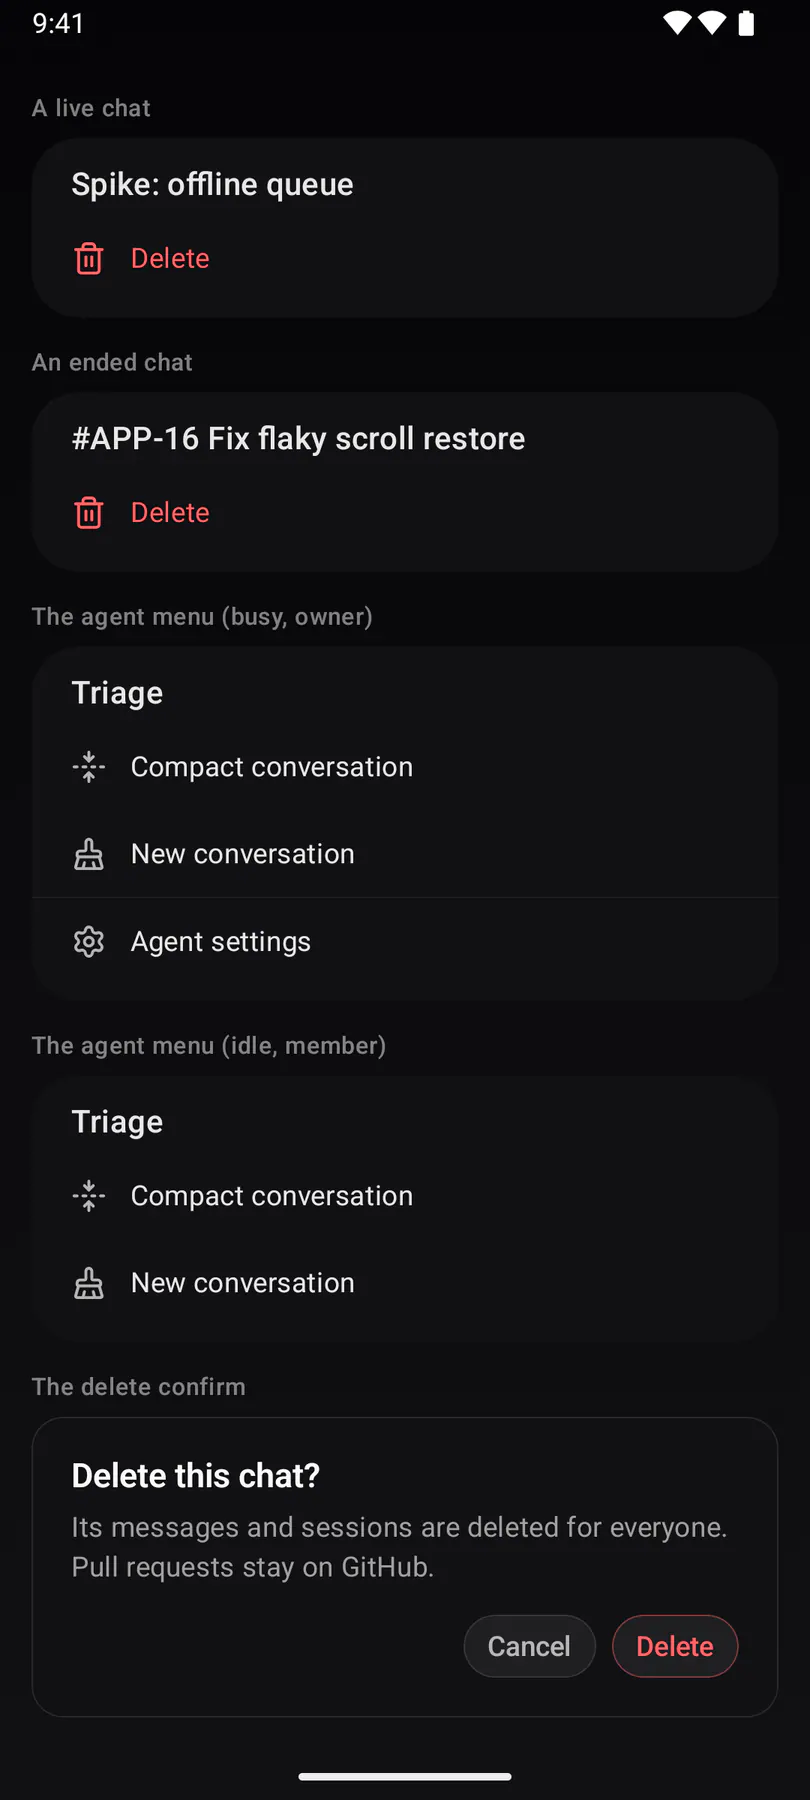
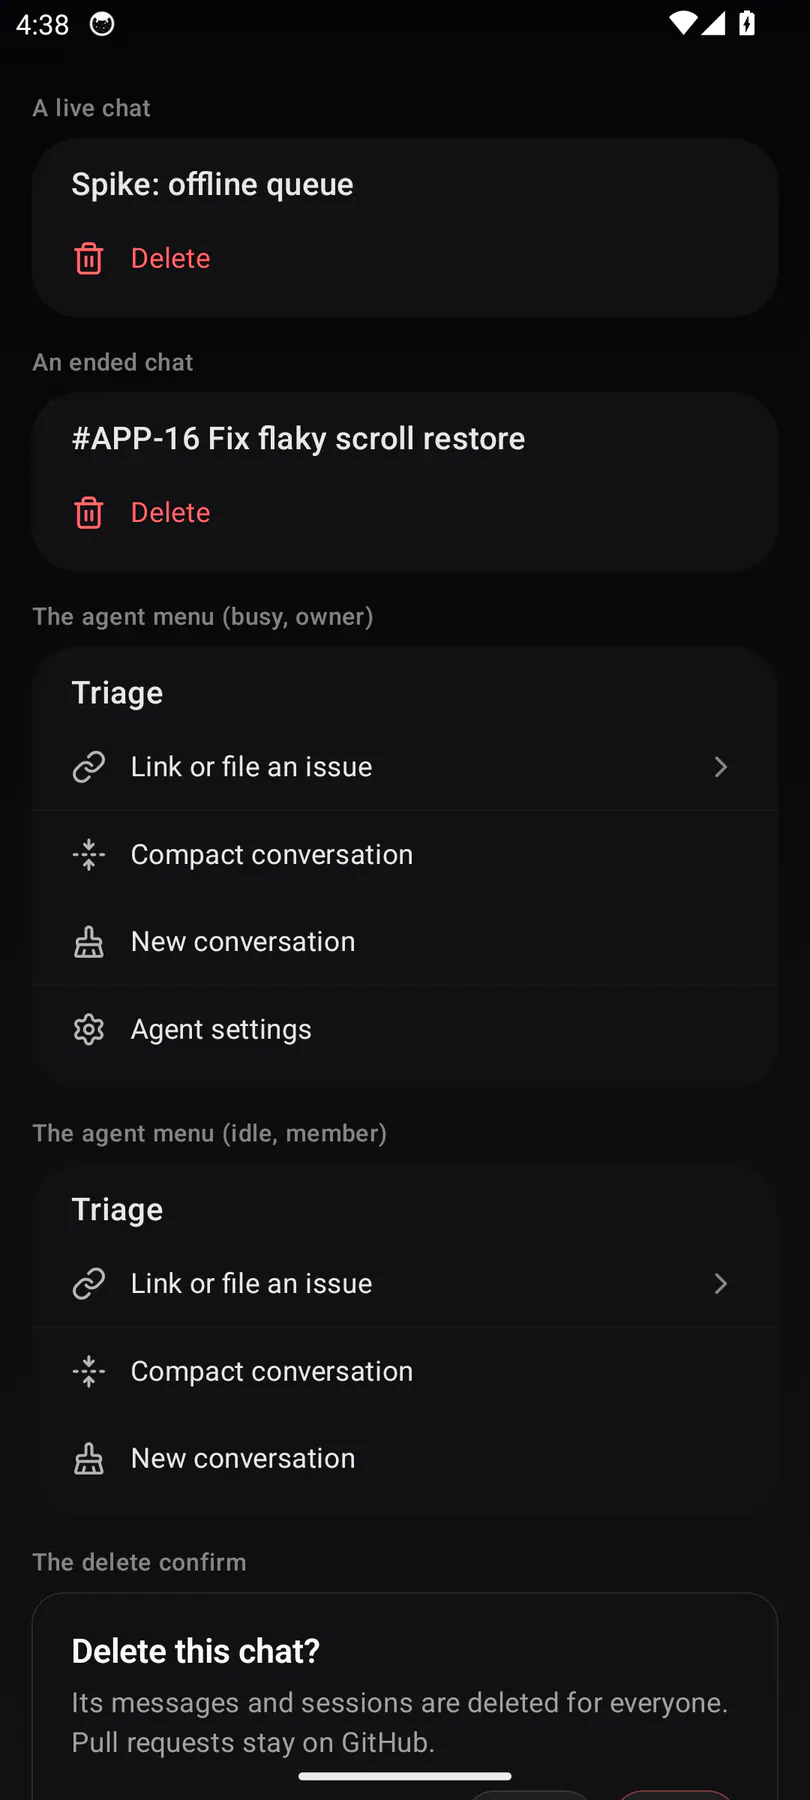
FEED-271: Android … Link or file an issue wears the `›` (iOS, web-mobile, IDE parity); chat-menus specimen draws THE session screen menu; agent-channel + chat-menus android shots

diff --git a/apps/android/app/src/main/java/com/exponential/app/ui/styleguide/ChatSpecimens.kt b/apps/android/app/src/main/java/com/exponential/app/ui/styleguide/ChatSpecimens.kt
@@ -71,7 +71,6 @@ import com.exponential.app.ui.components.SelectionBarSlot
 import com.exponential.app.ui.components.BottomNavDefaults
 import androidx.compose.foundation.layout.navigationBarsPadding
 import com.exponential.app.ui.components.ScheduleFieldsSpecimen
-import com.exponential.app.ui.components.agentMenuItems
 import com.exponential.app.ui.components.chatMenuItems
 import com.exponential.app.ui.theme.AppBackground
 import com.exponential.app.ui.theme.TextEmphasis
@@ -767,13 +766,15 @@ fun ChatMenusSpecimenScreen() {
             MenuCaptioned("An ended chat") {
                 ChatMenuSheetFace("#APP-16 Fix flaky scroll restore", chatMenuItems(Chats.chatMenuEntries("ended", true, true)) {})
             }
+            // #FEED-271: THE session screen `…` of an agent (web's
+            // AGENT_MENU_INPUT: a member, Link or file an issue › first).
             MenuCaptioned("The agent menu (busy, owner)") {
-                ChatMenuSheetFace("Triage", agentMenuItems(Chats.agentMenuEntries(busy = true, isOwner = true)) {})
+                ChatMenuSheetFace("Triage", specimenAgentMenu(settings = true))
             }
             MenuCaptioned("The agent menu (idle, member)") {
                 // Web's specimen names no agent; every phone titles both agent
                 // menus with the same agent (iOS: Triage).
-                ChatMenuSheetFace("Triage", agentMenuItems(Chats.agentMenuEntries(busy = false, isOwner = false)) {})
+                ChatMenuSheetFace("Triage", specimenAgentMenu(settings = false))
             }
             MenuCaptioned("The delete confirm") {
                 GlassAlertFace(
@@ -788,6 +789,20 @@ fun ChatMenusSpecimenScreen() {
         }
     }
 }
+
+private fun specimenAgentMenu(settings: Boolean) = com.exponential.app.ui.chat.sessionScreenMenuItems(
+    com.exponential.app.domain.SessionScreen.Kind.Agent,
+    com.exponential.app.domain.SessionScreen.menu(
+        com.exponential.app.domain.SessionScreen.Kind.Agent,
+        phone = false,
+        member = true,
+        settings = settings,
+        publish = false,
+        export = false,
+        delete = false,
+        linkIssue = true,
+    ),
+) {}
 
 /** A chat-menus specimen under web's caption (`text-xs` muted, 8dp above). */
 @Composable

diff --git a/apps/android/app/src/main/java/com/exponential/app/ui/components/ChatComponents.kt b/apps/android/app/src/main/java/com/exponential/app/ui/components/ChatComponents.kt
@@ -692,6 +692,9 @@ data class ChatMenuItem(
     /** #EXP-1611: non-null = a submenu entry; a pick PUSHES these rows as
      *  the menu's page (the header `…`'s Checks). */
     val submenu: List<ChatMenuItem>? = null,
+    /** #FEED-271: the `›` of a row that opens the next sheet (the session
+     *  screen's Link or file an issue), like a submenu entry's. */
+    val chevron: Boolean = false,
     /** The muted trailing meta (the app editor's Versions count). */
     val meta: String? = null,
 )
@@ -754,6 +757,18 @@ fun ChatMenuRows(items: List<ChatMenuItem>) {
                                 color = MaterialTheme.colorScheme.onSurface.copy(alpha = TextEmphasis.Secondary),
                             )
                         }
+                    } ?: if (item.chevron) {
+                        // #FEED-271: a row that opens the next sheet wears its `›`.
+                        {
+                            Icon(
+                                ExpIcons.uiChevronRight,
+                                contentDescription = null,
+                                tint = MaterialTheme.colorScheme.onSurface.copy(alpha = TextEmphasis.Tertiary),
+                                modifier = Modifier.size(18.dp),
+                            )
+                        }
+                    } else {
+                        null
                     },
                 )
             }

diff --git a/apps/android/app/src/main/java/com/exponential/app/ui/chat/ChatHeader.kt b/apps/android/app/src/main/java/com/exponential/app/ui/chat/ChatHeader.kt
@@ -274,8 +274,8 @@ private fun ChatMenuPanelRow(item: ChatMenuItem, onClick: () -> Unit) {
             }
         },
         text = { Text(item.label, maxLines = 1, overflow = TextOverflow.Ellipsis) },
-        trailing = if (item.value != null || item.submenu != null) {
-            { ChatMenuTrailing(item.value, chevron = item.submenu != null) }
+        trailing = if (item.value != null || item.submenu != null || item.chevron) {
+            { ChatMenuTrailing(item.value, chevron = item.submenu != null || item.chevron) }
         } else {
             null
         },

diff --git a/apps/android/app/src/main/java/com/exponential/app/ui/chat/SessionScreenParts.kt b/apps/android/app/src/main/java/com/exponential/app/ui/chat/SessionScreenParts.kt
@@ -222,6 +222,9 @@ fun sessionScreenMenuGroups(
             onClick = { onPick(entry) },
             destructive = entry == SessionScreen.MenuEntry.Delete,
             testTag = "${SessionScreen.TestIds.MENU}-${entry.wire}",
+            // #FEED-271: it opens THE link menu as the next sheet: its `›`
+            // (web-mobile, iOS, the IDE's submenu row).
+            chevron = entry == SessionScreen.MenuEntry.LinkIssue,
         )
     }
     return groups.filter { it.isNotEmpty() }
